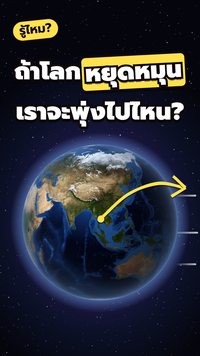
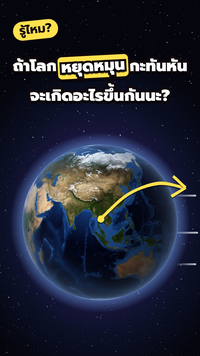
earth-stops: cover A text per user (จะเกิดอะไรขึ้นกันนะ?)
Claude-Session: https://claude.ai/code/session_016zMkaSnQyihX9MAAwbcZ5N

Changed region(s): [[0.06, 0.1236, 0.96, 0.3708]]

diff --git a/projects/2026-11-28-knowledge-earth-stops/thumbnail.md b/projects/2026-11-28-knowledge-earth-stops/thumbnail.md
@@ -3,6 +3,6 @@
 
 | แบบ | ภาพเด่น | ข้อความ (`*คำ*` = กล่องเอียง) | ป้ายมุม | วาดมือ | curiosity |
 |---|---|---|---|---|---|
-| A (หลัก) | โลกจริง NASA (Blue Marble) เต็มลูกบนพื้นอวกาศมืด | ถ้าโลก *หยุดหมุน* / เราจะพุ่งไปไหน? | รู้ไหม? | ลูกศรวาดมือโค้งชี้ไปทางขวา (ตะวันออก) จากโลก | อยากรู้ผลกับตัวเอง (✅ พุ่งไปทางตะวันออก) |
+| A (หลัก) | โลกจริง NASA (Blue Marble) เต็มลูกบนพื้นอวกาศมืด | ถ้าโลก *หยุดหมุน* กะทันหัน / จะเกิดอะไรขึ้นกันนะ? (ผู้ใช้เลือกข้อความนี้ 2026-11-28 แทน "เราจะพุ่งไปไหน?") | รู้ไหม? | ลูกศรวาดมือโค้งชี้ไปทางขวา (ตะวันออก) จากโลก | อยากรู้ผลกับตัวเอง (✅ พุ่งไปทางตะวันออก) |
 | B | โลกจากวงโคจร/ISS เห็นแถบเอเชียตะวันออกเฉียงใต้ | พื้นใต้เท้าเรา / *ไวกว่าเสียง*!? (เดิม "พื้นที่เรายืนอยู่ / เร็วกว่าเสียง" cover_check ERROR คำซ้ำ "เร") | วิทยาศาสตร์ | วงวาดมือรอบประเทศไทย/SEA | ขัดกับที่เชื่อ (✅ 1,600 > 1,236 กม./ชม.) |
 ทั้งสองต้องจริงตาม research.md, ภาพจริง NASA ไม่ใช่กราฟิกการ์ตูน

diff --git a/projects/2026-11-28-knowledge-earth-stops/DELIVERY.md b/projects/2026-11-28-knowledge-earth-stops/DELIVERY.md
@@ -45,7 +45,7 @@
 
 ## ชื่อ / ปก A/B
 - ชื่อแนะนำ: **ถ้าโลกหยุดหมุนกะทันหัน? 🌍** (ตัวเลือกอื่นใน upload.md)
-- ปก A (หลัก): ลูกโลกจริง + "ถ้าโลก [หยุดหมุน] / เราจะพุ่งไปไหน?" + ป้าย "รู้ไหม?" + ลูกศรวาดมือไปตะวันออก
+- ปก A (หลัก): ลูกโลกจริง + "ถ้าโลก [หยุดหมุน] กะทันหัน / จะเกิดอะไรขึ้นกันนะ?" (ผู้ใช้แก้ข้อความหลังส่ง; เดิม "เราจะพุ่งไปไหน?") + ป้าย "รู้ไหม?" + ลูกศรวาดมือไปตะวันออก
 - ปก B: เอเชียตะวันออกเฉียงใต้จาก Blue Marble + "พื้นใต้เท้าเรา / [ไวกว่าเสียง]!?" + ป้าย "วิทยาศาสตร์" + วงวาดมือรอบไทย
 - หลัง ≥48 ชม.: `python3 tools/cover_check.py log projects/2026-11-28-knowledge-earth-stops --variant a --ctr <%> --impressions <n>`
 
